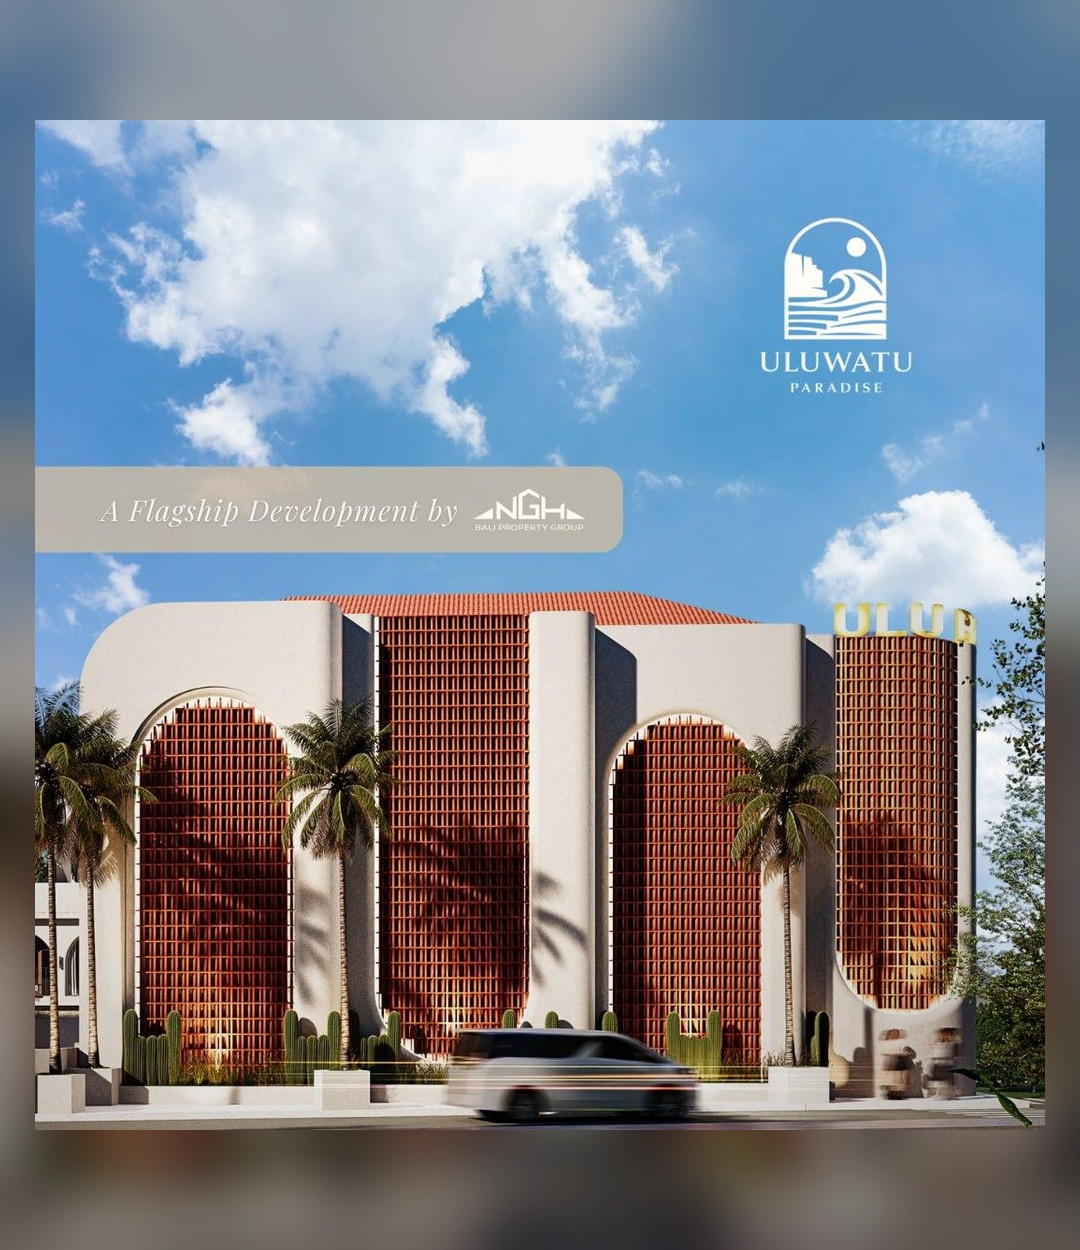
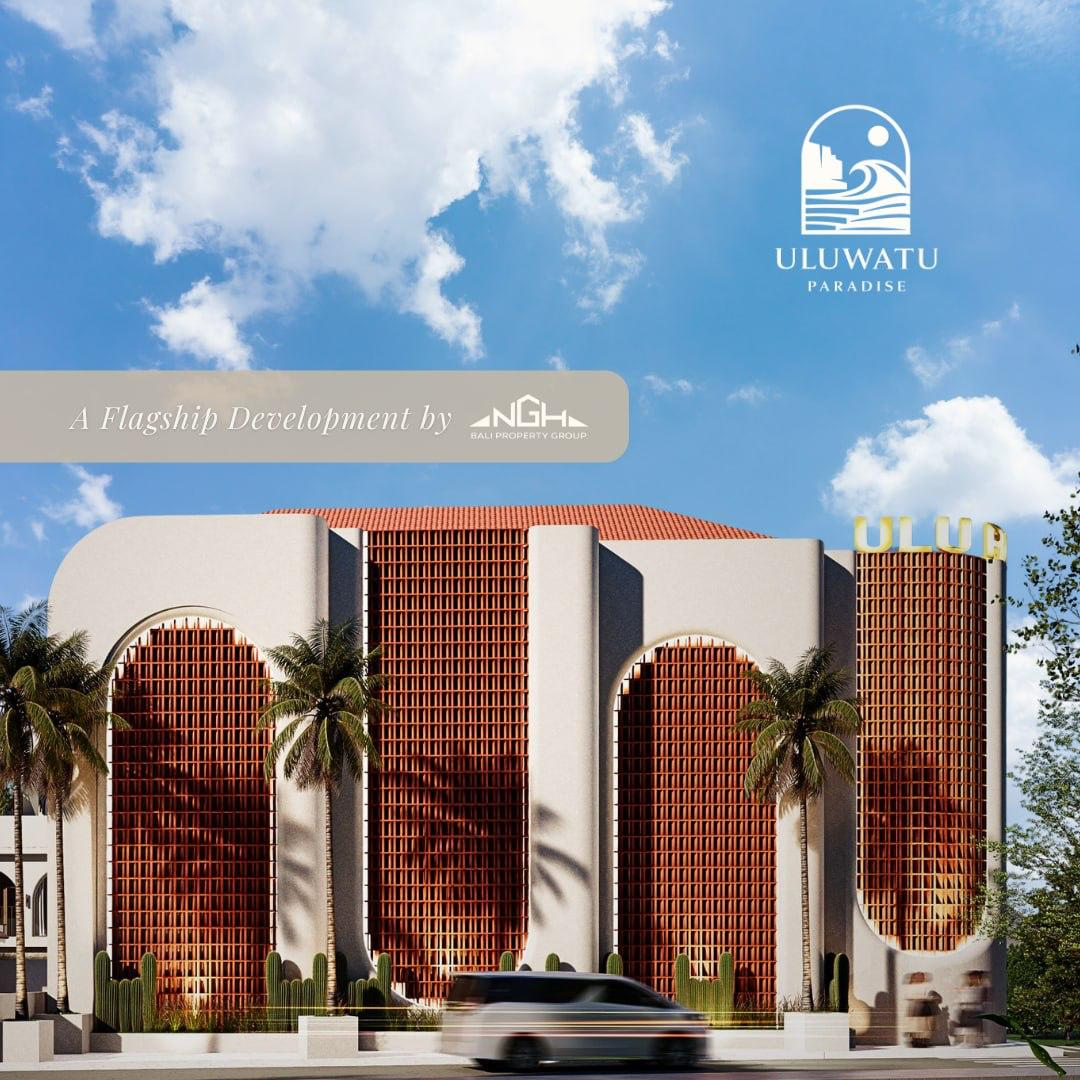
fix: make discover image fill card

diff --git a/app/layout.tsx b/app/layout.tsx
@@ -2,7 +2,6 @@ import type { Metadata } from 'next'
 import { Playfair_Display, Inter } from 'next/font/google'
 import Navigation from '@/components/Navigation'
 import ScrollProgress from '@/components/ScrollProgress'
-import CursorFollower from '@/components/CursorFollower'
 import FloatingCTA from '@/components/FloatingCTA'
 import './globals.css'
 
@@ -54,7 +53,6 @@ export default function RootLayout({
       </head>
       <body>
         <ScrollProgress />
-        <CursorFollower />
         <Navigation />
         {children}
         <FloatingCTA />

diff --git a/components/ScrollExperience.tsx b/components/ScrollExperience.tsx
@@ -1192,7 +1192,7 @@ export default function ScrollExperience() {
                   src="/images/discover-hero.jpg"
                   alt="Discover NGH Property Group"
                   fill
-                  className="object-cover"
+                  className="object-cover object-center"
                   sizes="(max-width: 1024px) 100vw, 50vw"
                 />
                 <div